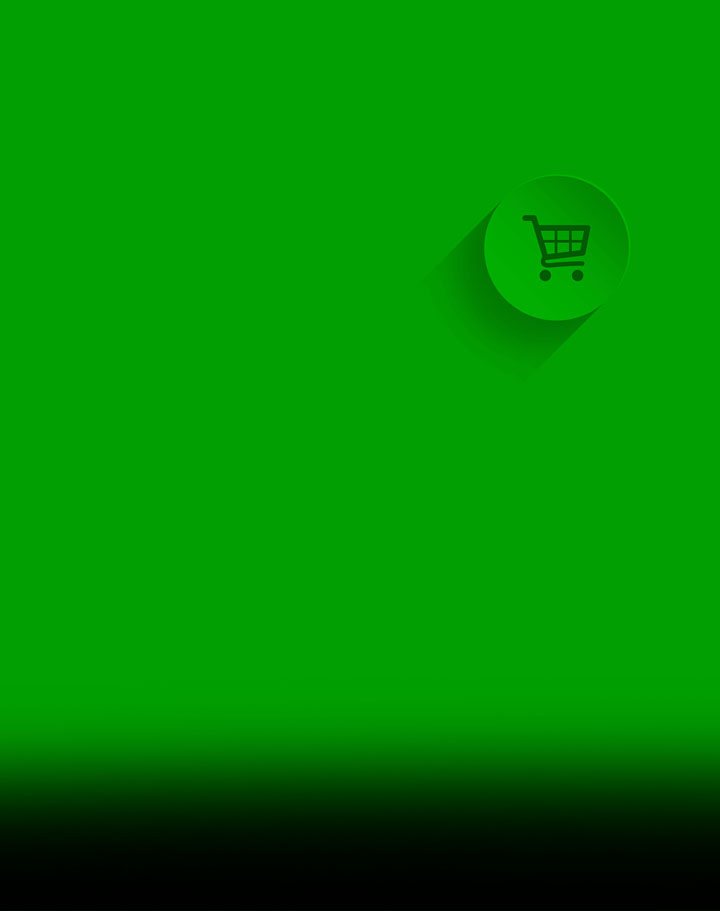
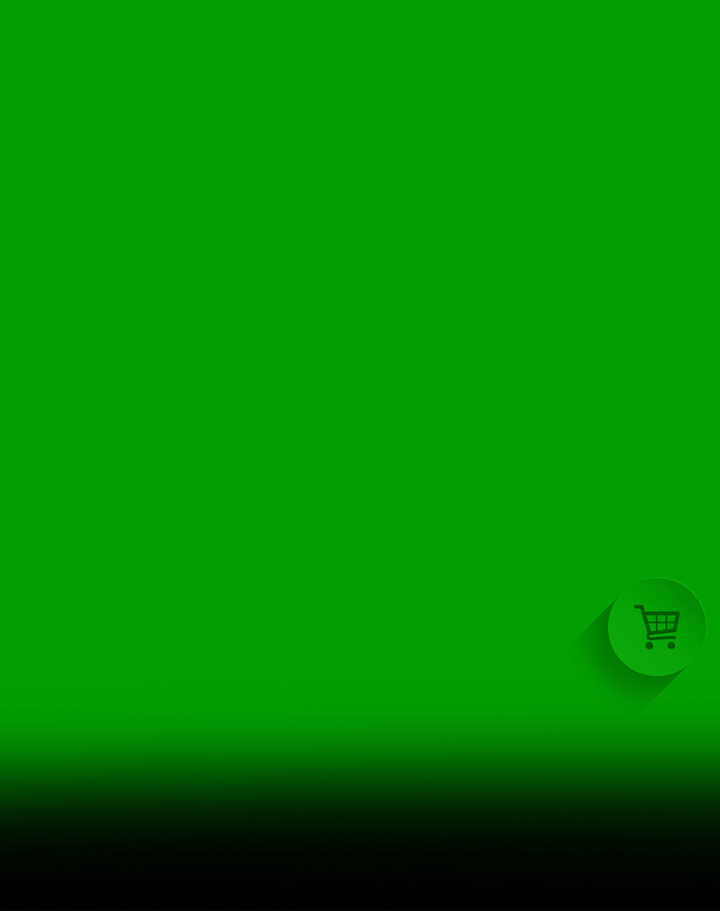
#20 현행 포트폴리오 추가 - 노원구 블랙 그라데이션 끊김 현상 이미지 재수정 - 네이버 쇼핑몰 카트 아이콘 축소 반영 - 노원구 헤시태그 미적용분 반영(고양시와 동일)

diff --git a/index.html b/index.html
@@ -137,7 +137,7 @@
 			<a href="portfolio/line-pay.html" class="portfolio-open" data-image='["line_pay_list_thumb.jpg"]'
 			data-title="네이버 LINE PAY 개발" data-date="2019.04 ~ 2019.10" data-tag='["개발","java", "spring-boot", "jpa"]'></a>
 			<a href="portfolio/nowon-responsive.html" class="portfolio-open" data-image='["nowon_responsive_list_thumb.jpg"]'
-			data-title="노원구청 표준화 사업" data-date="2019.09 ~ 2019.12" data-tag='["반응형웹", "퍼블리싱", "웹접근성"]'></a>
+			data-title="노원구청 표준화 사업" data-date="2019.09 ~ 2019.12" data-tag='["반응형", "웹 접근성", "UI개발", "리뉴얼"]'></a>
 			<a href="portfolio/cgv-payment-system.html" class="portfolio-open" data-image='["cgv_payment_system_list_thumb.jpg"]'
 			data-title="CJ CGV 통합결제 및 영수증 기능 개발" data-date="2019.08 ~ 2019.11" data-tag='["모바일앱", "퍼블리싱"]'></a>
 			<a href="portfolio/sec-responsive.html" class="portfolio-open" data-image='["sec_responsive_list_thumb.jpg"]'
@@ -174,7 +174,7 @@
 			<a href="portfolio/kakaom.html" class="portfolio-open" data-image='["kakaom_list_thumb.jpg"]'
 				data-title="카카오엠" data-date="2018.11 ~ 2018.12" data-tag='["PC웹"]'></a>
 			<a href="portfolio/goyang.html" class="portfolio-open" data-image='["goyang_list_thumb.jpg"]'
-				data-title="고양시청" data-date="2018.06 ~ 2018.12" data-tag='["반응형", "웹 접근성"]'></a>
+				data-title="고양시청" data-date="2018.06 ~ 2018.12" data-tag='["반응형", "웹 접근성", "UI개발", "리뉴얼"]'></a>
 			<a href="portfolio/goyang-mayor.html" class="portfolio-open" data-image='["goyang-mayor_list_thumb.jpg"]'
 				data-title="고양시 열린시장실" data-date="2018.06 ~ 2018.12" data-tag='["반응형", "웹 접근성"]'></a>
 			<a href="portfolio/fistq.html" class="portfolio-open" data-image='["firstQpay_list_thumb.jpg"]'

diff --git a/portfolio/nowon-responsive.html b/portfolio/nowon-responsive.html
@@ -29,8 +29,10 @@
 					<p class="date">2019.10 ~ 2019.12</p>
 					<ul class="hash-tag-wrap">
 						<!-- 해시태그 카테고리 -->
+						<li>UI개발</li>
 						<li>반응형웹</li>
 						<li>웹접근성</li>
+						<li>리뉴얼</li>
 					</ul>
 					<p class="content"></p>
 					<!-- PC 모바일 새창보기 -->
